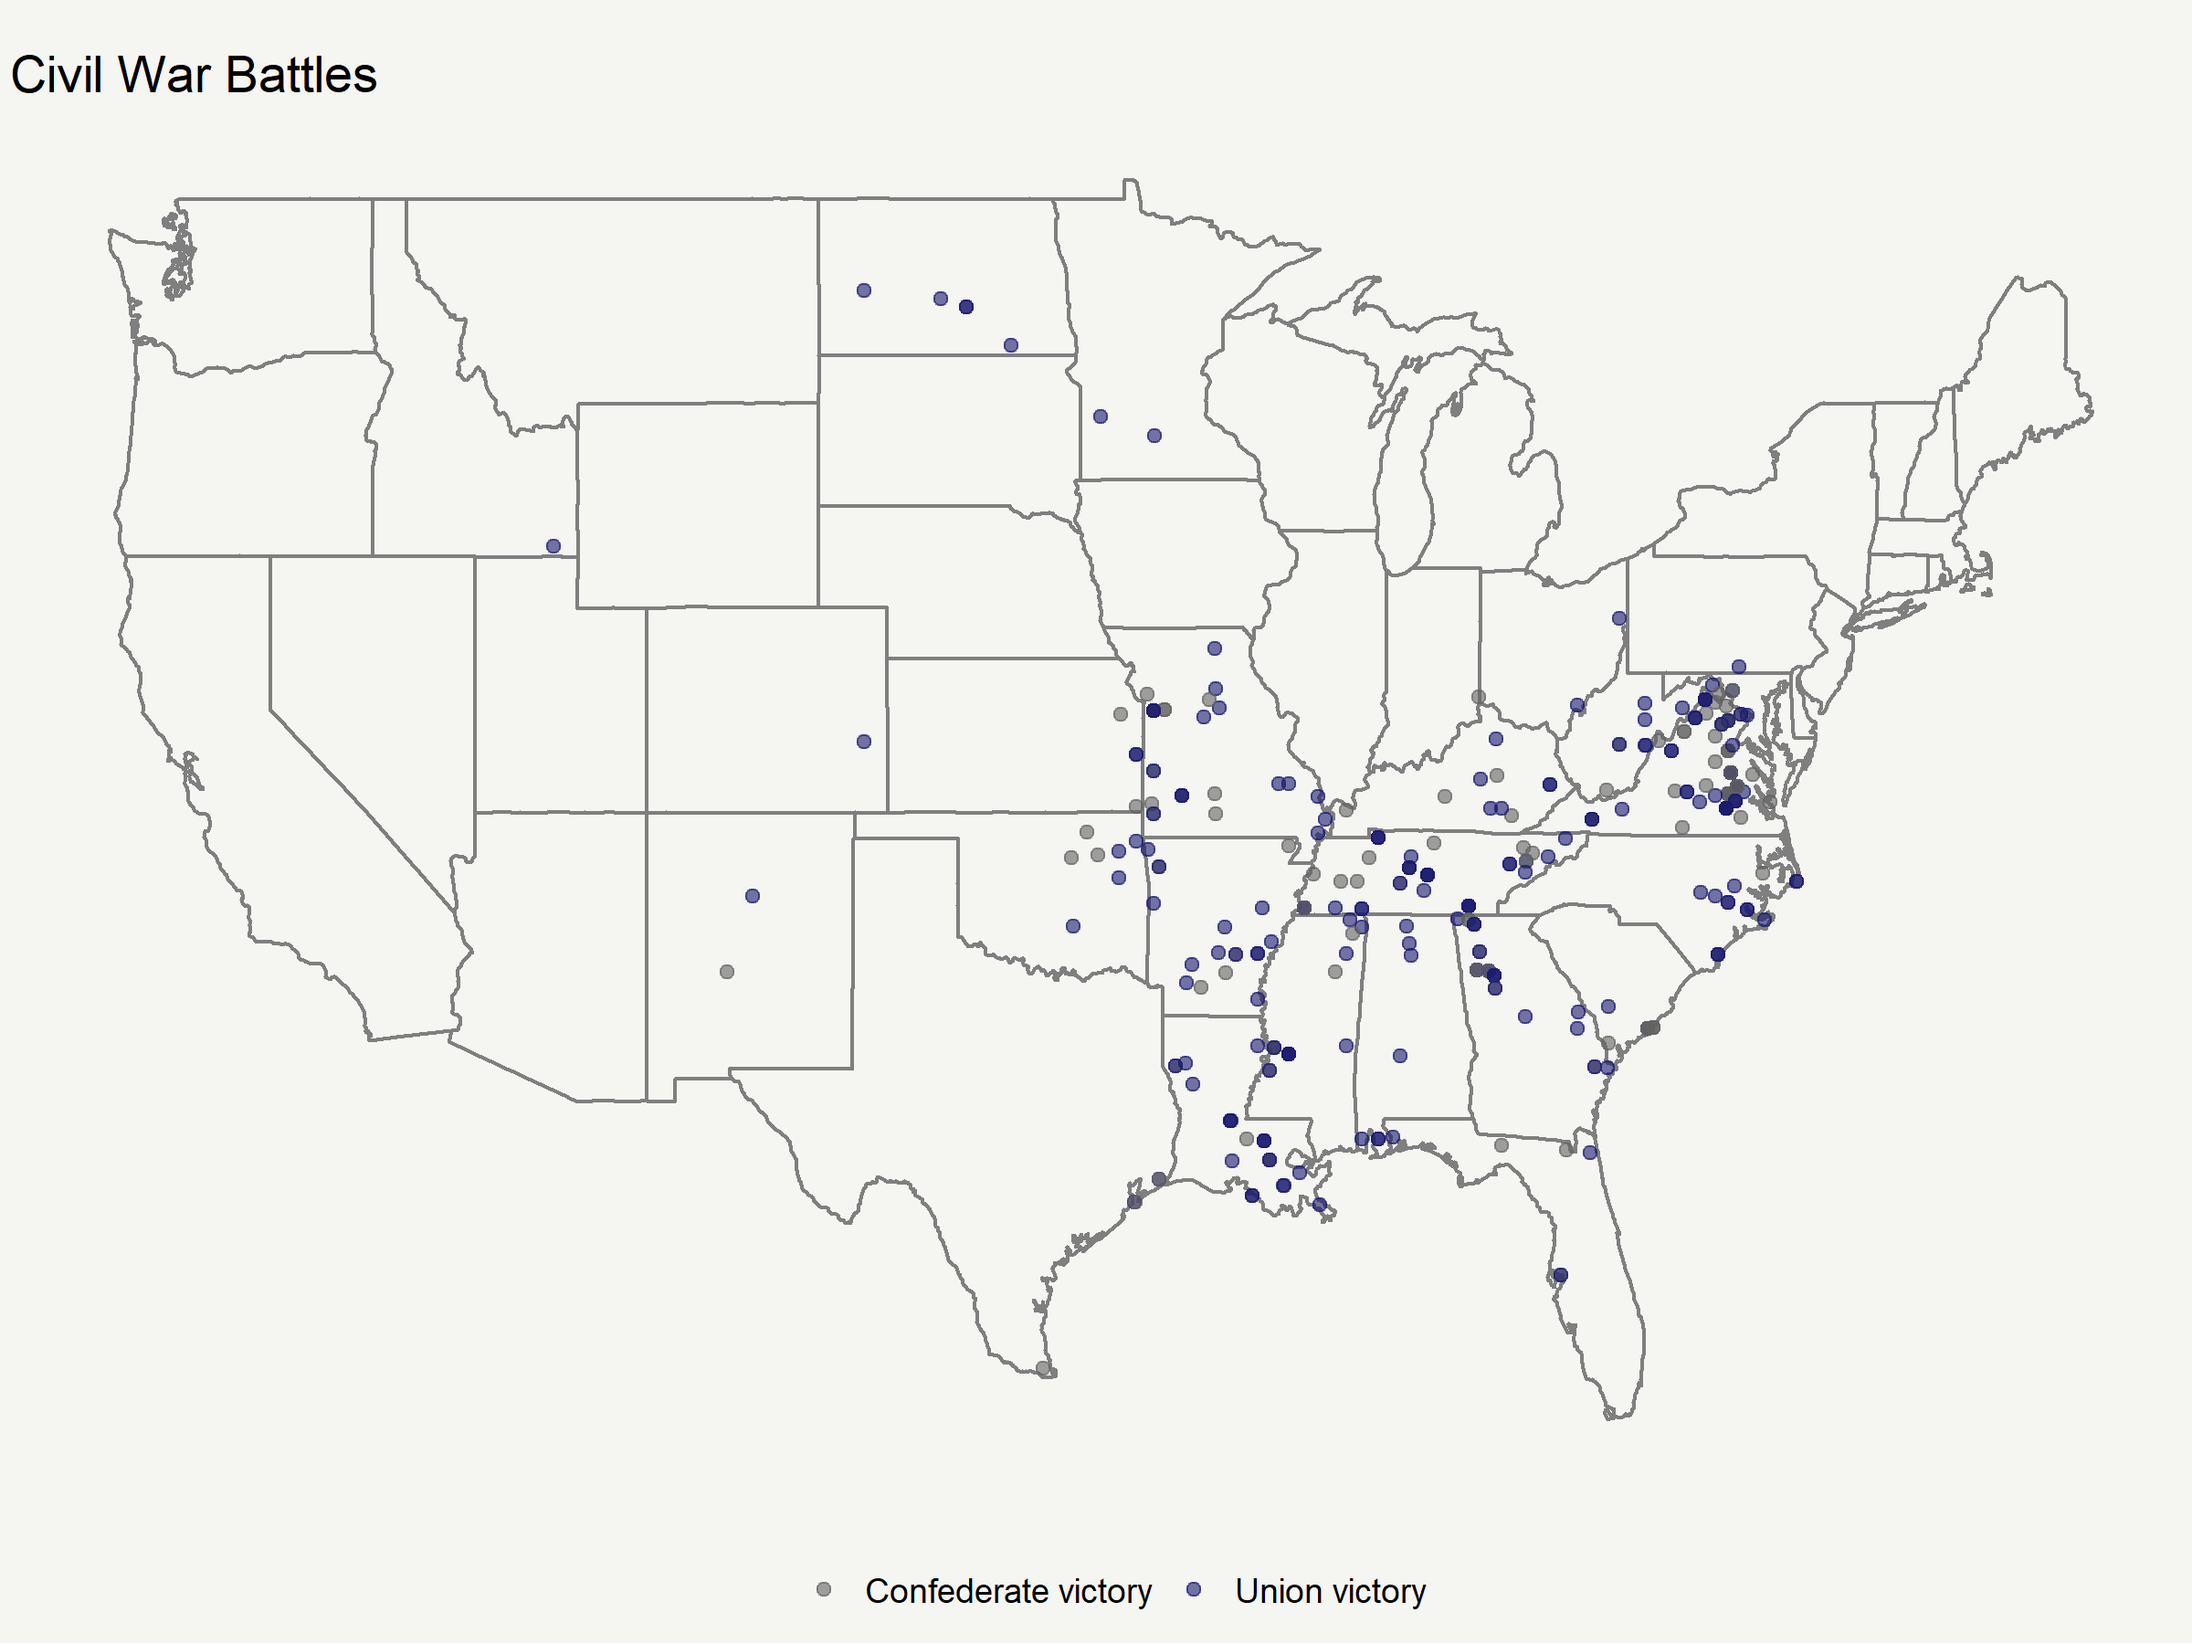
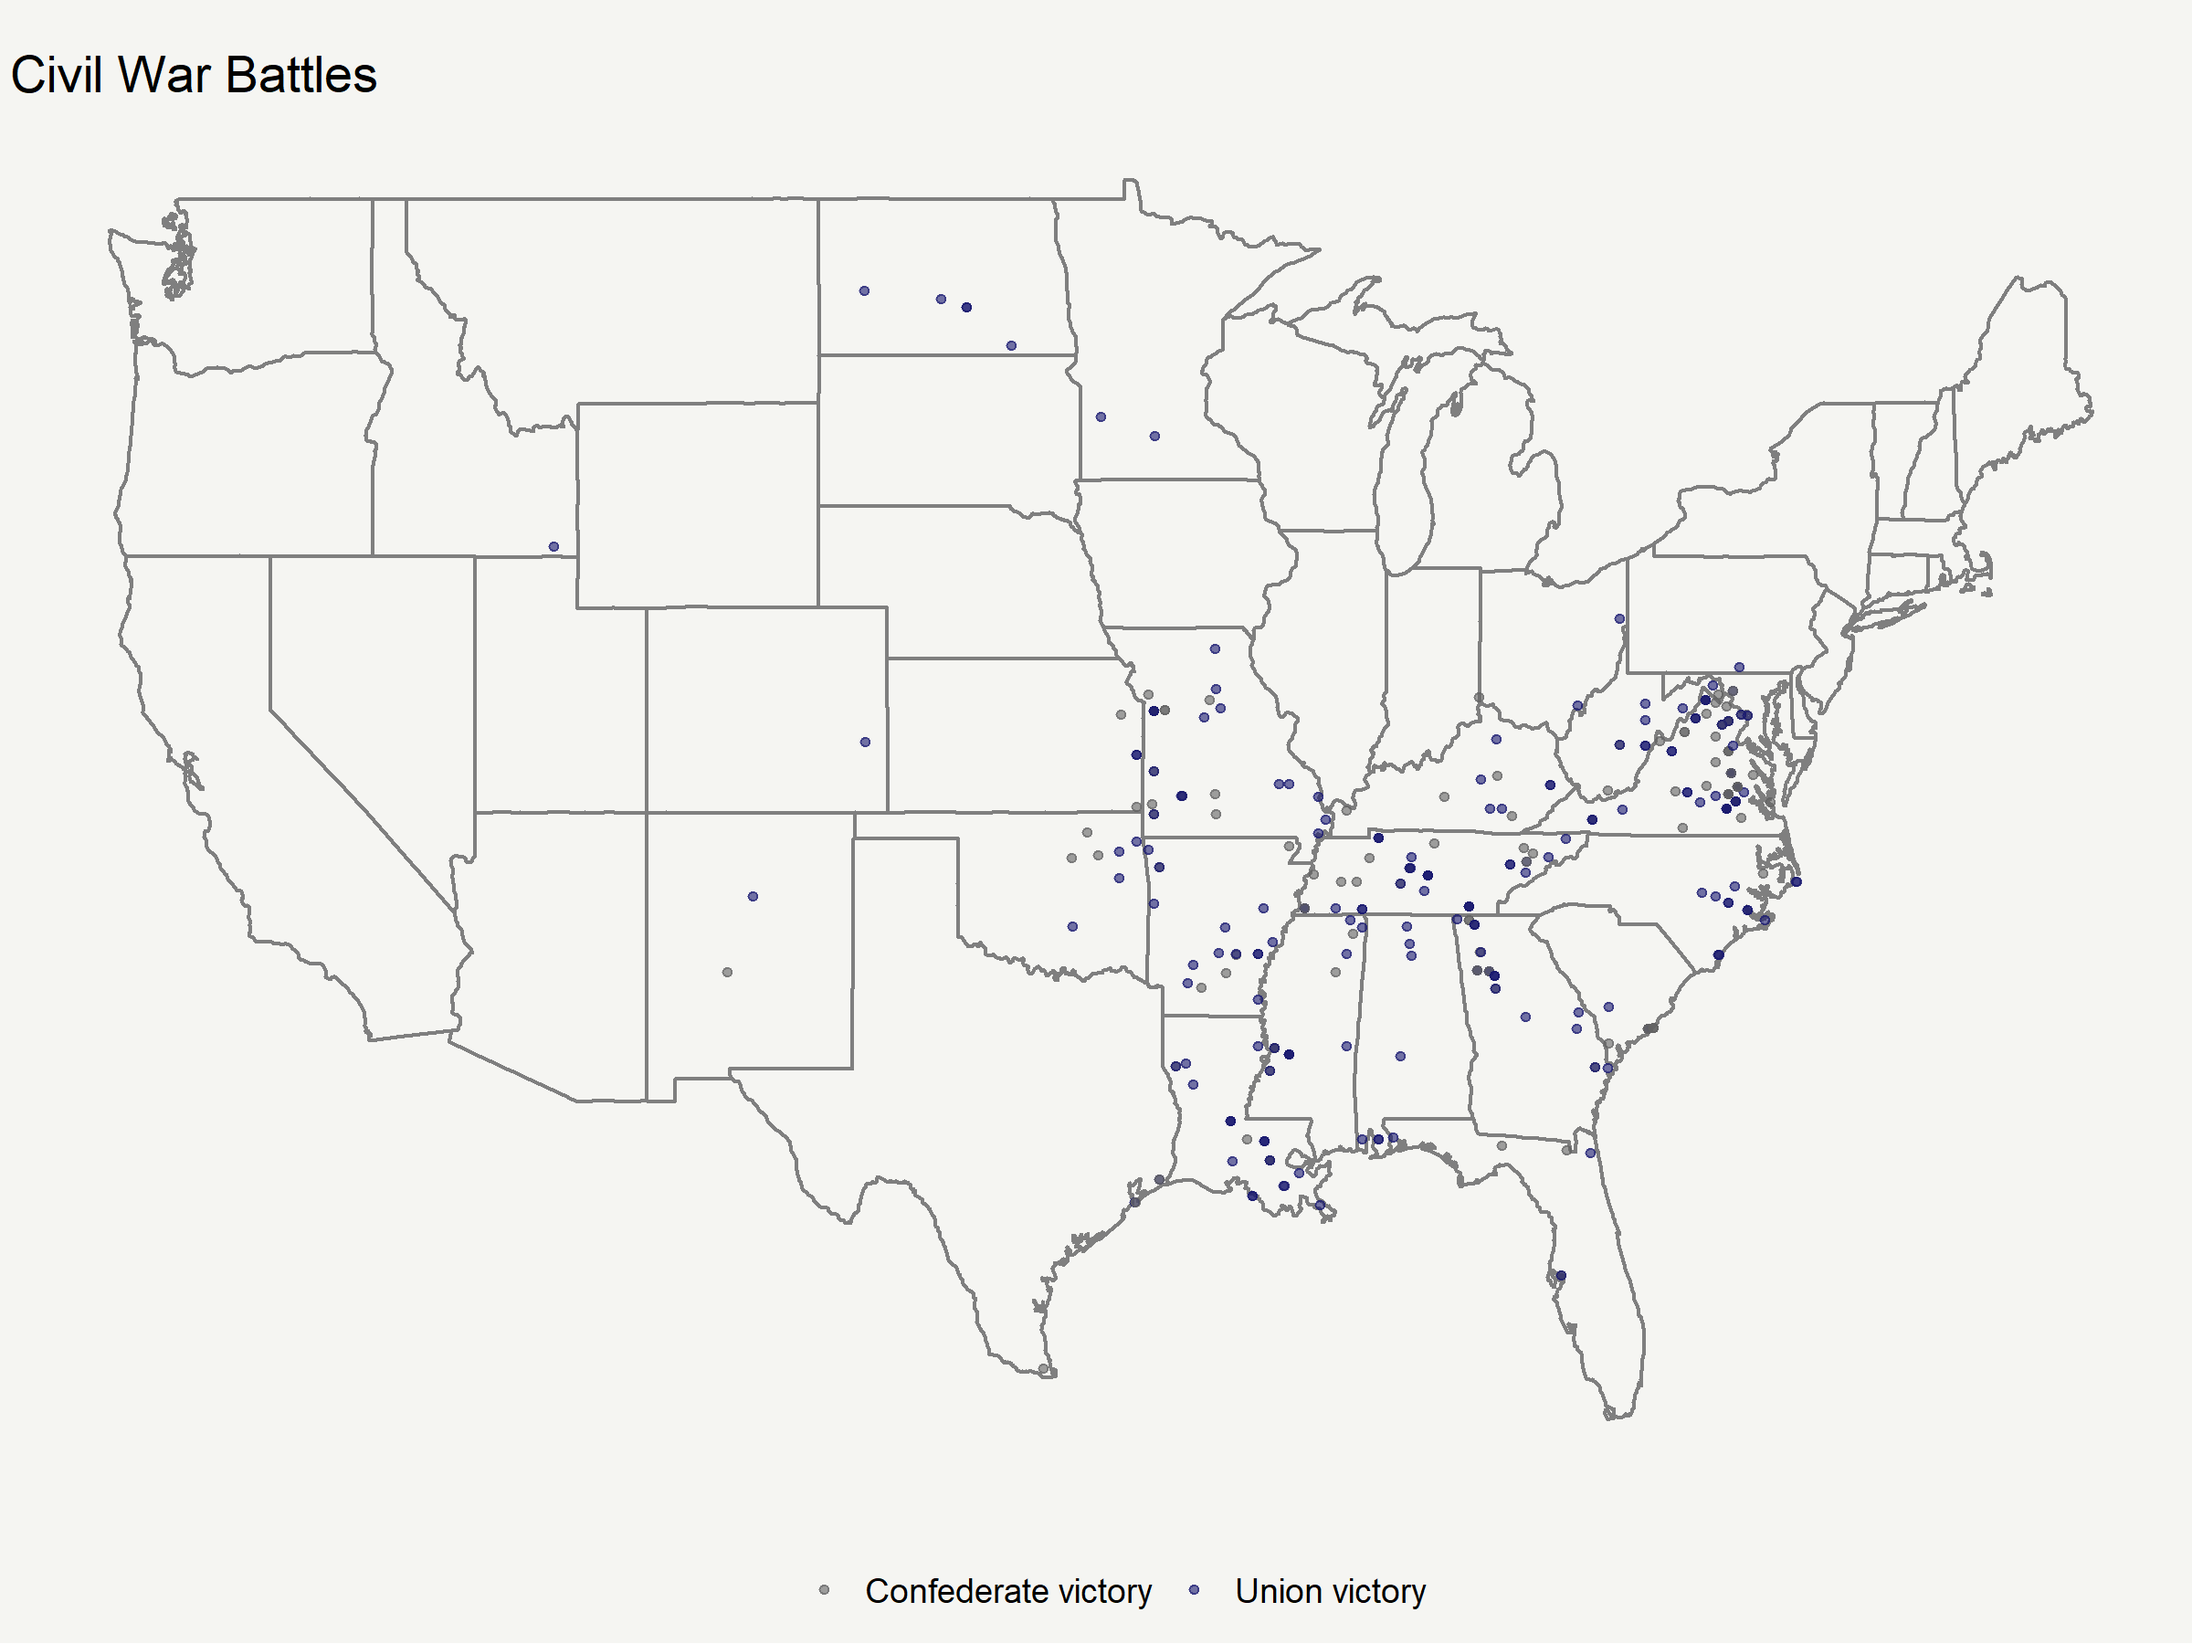
Change point size

diff --git a/civil_war_map.md b/civil_war_map.md
@@ -83,7 +83,7 @@ p <- civil_war %>%
   filter(results != "Inconclusive") %>%  
   ggplot(aes(x = lon, y = lat, frame = start_date)) + 
   borders("state") + 
-  geom_point(aes(color = results), position = "jitter", alpha = 0.6) + 
+  geom_point(aes(color = results), position = "jitter", alpha = 0.6, size = 0.9) + 
   scale_color_manual(values = c("gray39", "midnightblue")) +
   theme_void() +
   theme(plot.background = element_rect(fill = "#f5f5f2", color = NA),
